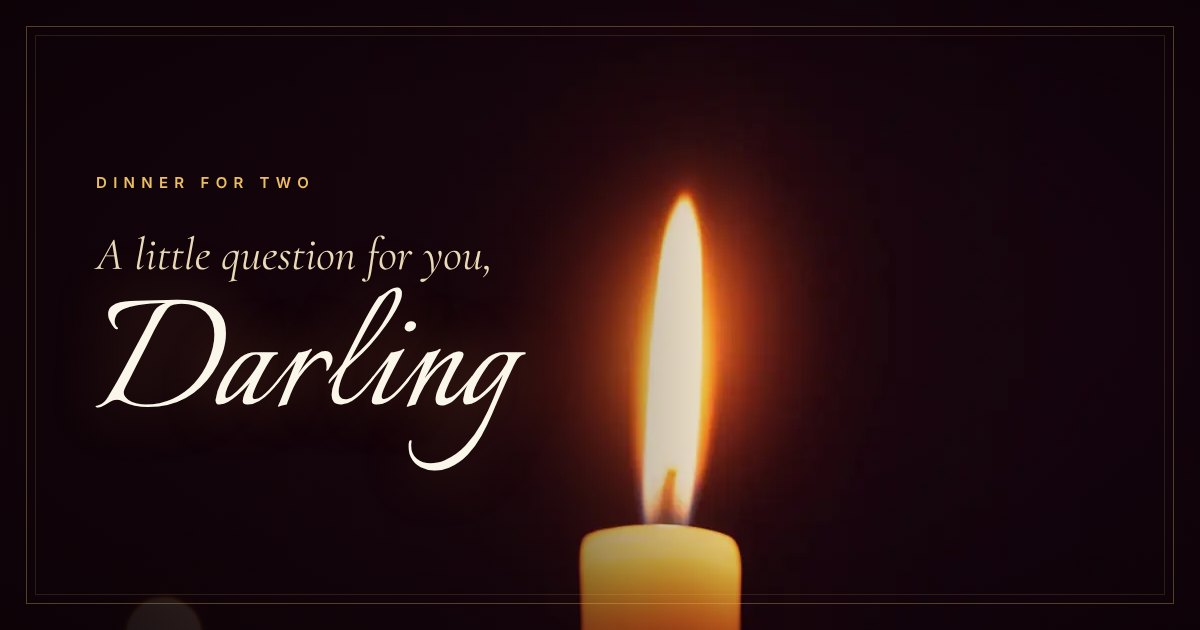
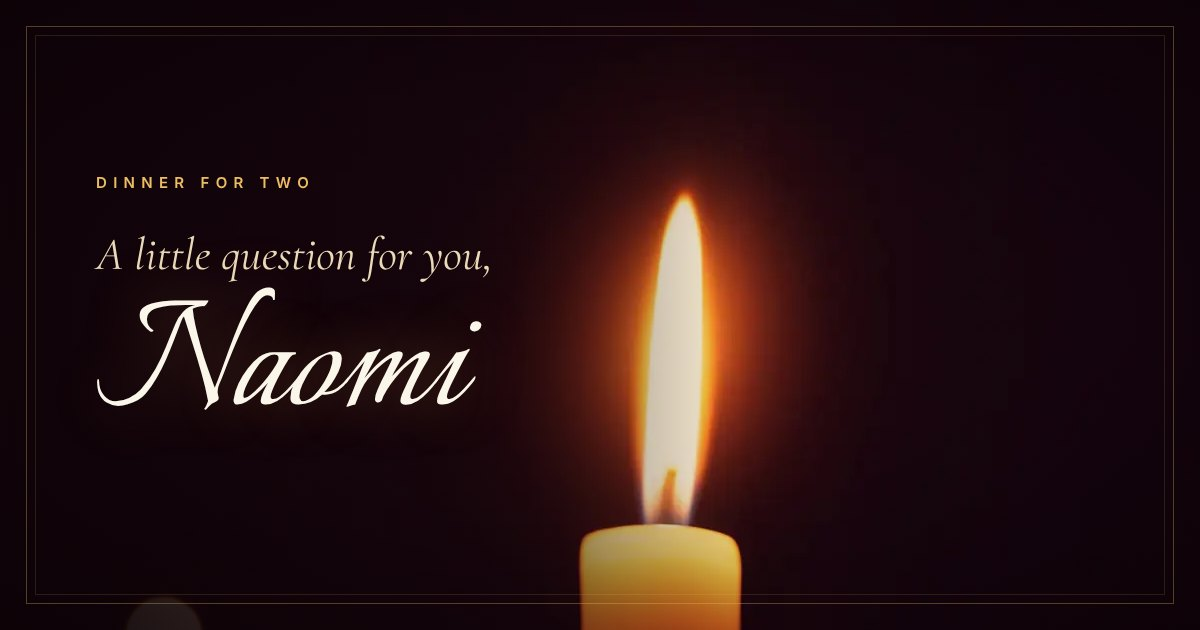
Add 'my queen' touches: hero reveal, question, success line
Nickname, crown toggle, headline and thank-you lines are all in config/site.ts.
Title and OG keep 'A little question for you, Naomi'.

Claude-Session: https://claude.ai/code/session_01SHpvp2hbQx8B6pFzCuEKox

Changed region(s): [[0.0617, 0.4524, 0.4317, 0.6937], [0.3392, 0.6937, 0.4008, 0.754]]

diff --git a/src/components/sections/Opening.tsx b/src/components/sections/Opening.tsx
@@ -52,7 +52,7 @@ export function Opening({ tier }: { tier: Tier }) {
       {!reduced && <Bokeh />}
       <div aria-hidden className="absolute inset-0" style={{ background: 'radial-gradient(90% 60% at 50% 100%, rgba(67,16,34,0.5), transparent 70%)' }} />
 
-      <m.div className="relative z-10 mx-auto flex h-full max-w-xl flex-col items-center justify-end px-6 pb-[13svh] text-center" style={reduced ? undefined : { y: textY, opacity: textOpacity }}>
+      <m.div className="relative z-10 mx-auto flex h-full max-w-xl flex-col items-center justify-end px-6 pb-[12svh] text-center" style={reduced ? undefined : { y: textY, opacity: textOpacity }}>
         <p className="text-[10px] uppercase tracking-[0.5em] text-gold-300/80">{site.eyebrow}</p>
         <h1 className="mt-6 font-script text-cream-50 [text-shadow:0_2px_40px_rgba(18,4,10,0.8)]">
           <span className="block text-[clamp(40px,12vw,68px)] leading-none text-gold-300">
@@ -62,18 +62,40 @@ export function Opening({ tier }: { tier: Tier }) {
             <LetterReveal text={site.herName} reduced={reduced} delay={1.6} />
           </span>
         </h1>
+        {site.hero.nickname && (
+          <m.div
+            initial={reduced ? false : { opacity: 0 }}
+            animate={{ opacity: 1 }}
+            transition={{ duration: 2.6, delay: reduced ? 0 : 4.0, ease: [0.22, 0.61, 0.36, 1] }}
+            className="mt-1 flex flex-col items-center"
+          >
+            {site.hero.crown && (
+              <svg viewBox="0 0 40 30" className="mb-1 h-[22px] w-auto" fill="none" stroke="#ecbd62" strokeWidth="0.9" strokeLinecap="round" strokeLinejoin="round" aria-hidden>
+                <m.path
+                  d="M5 24 L8 9 L15 17 L20 6 L25 17 L32 9 L35 24 Z M5 28 H35"
+                  initial={reduced ? false : { pathLength: 0 }}
+                  animate={{ pathLength: 1 }}
+                  transition={{ duration: 3, delay: reduced ? 0 : 4.2, ease: 'easeInOut' }}
+                />
+                <circle cx="8" cy="7" r="1" fill="#ecbd62" stroke="none" />
+                <circle cx="20" cy="4" r="1" fill="#ecbd62" stroke="none" />
+                <circle cx="32" cy="7" r="1" fill="#ecbd62" stroke="none" />
+              </svg>
+            )}
+            <span className="queen-glow font-script text-[clamp(38px,11vw,60px)] leading-none text-gold-300">{site.hero.nickname}</span>
+          </m.div>
+        )}
         <m.p
           initial={reduced ? false : { opacity: 0, y: 10 }}
           animate={{ opacity: 1, y: 0 }}
-          transition={{ duration: 1.8, delay: reduced ? 0 : 3.2, ease: [0.22, 0.61, 0.36, 1] }}
-          className="mt-7 max-w-[26ch] font-display text-[1.25rem] italic leading-snug text-cream-200/80"
+          transition={{ duration: 1.8, delay: reduced ? 0 : 5.6, ease: [0.22, 0.61, 0.36, 1] }}
+          className="mt-6 max-w-[26ch] font-display text-[1.25rem] italic leading-snug text-cream-200/80"
         >
           {fill(site.hero.tagline)}
         </m.p>
       </m.div>
 
       <div className="absolute inset-x-0 bottom-[max(20px,env(safe-area-inset-bottom))] z-10 flex flex-col items-center gap-3 text-[10px] uppercase tracking-[0.36em] text-cream-200/45" aria-hidden>
-        <span>{site.hero.scrollHint}</span>
         <span className="relative block h-8 w-px overflow-hidden bg-gold-400/25">
           <span className="absolute inset-x-0 top-0 h-3 bg-gradient-to-b from-gold-300 to-transparent [animation:hint_2.8s_ease-in-out_infinite]" />
         </span>

diff --git a/src/config/site.ts b/src/config/site.ts
@@ -12,7 +12,7 @@ export type Choice = 'yes' | 'obviously';
 
 export const site = {
   /** Her name, in the script font. */
-  herName: 'Darling',
+  herName: 'Naomi',
 
   /** Your first name. Used in "Tell {yourName}" and the calendar event. */
   yourName: 'Your Name',
@@ -37,8 +37,11 @@ export const site = {
   hero: {
     /** Shown above her name, in script. Try "Hi," or "Hey" or "Well, hello,". */
     greeting: 'Hey,',
+    /** Your pet name for her. Fades in under her name, softly glowing. Set to '' to leave it out. */
+    nickname: 'my queen',
+    /** A tiny gold line-art crown above the nickname. Set false if it ever feels like too much. */
+    crown: true,
     tagline: 'I have something to ask you.',
-    scrollHint: 'Scroll',
   },
 
   /** Your words, one per screen while she scrolls. Two to four is the sweet spot. */
@@ -70,7 +73,7 @@ export const site = {
 
   /** The big question. */
   question: {
-    headline: 'Will you have dinner with me?',
+    headline: 'My queen, will you have dinner with me?',
     yesPrimary: 'Yes',
     yesSecondary: 'Obviously yes',
     underline: 'I made this easy for you.',
@@ -79,8 +82,8 @@ export const site = {
 
   /** Thank-you line shown depending on which button she tapped. */
   thanks: {
-    yes: 'Perfect. It’s a date.',
-    obviously: 'I knew you had great taste.',
+    yes: 'Perfect. It’s a date, my queen.',
+    obviously: 'I knew you had great taste, my queen.',
   } satisfies Record<Choice, string>,
 
   /** Labels on the confirmation card. {you} is replaced with yourName. */

diff --git a/src/styles/index.css b/src/styles/index.css
@@ -67,6 +67,13 @@ button { font: inherit; -webkit-tap-highlight-color: transparent; }
   100% { transform: translate3d(-10px, -50px, 0) scale(0.95); }
 }
 
+/* "my queen": a quiet candlelit glow */
+.queen-glow { animation: queenGlow 5s ease-in-out infinite; text-shadow: 0 0 18px rgba(255, 190, 100, 0.55), 0 0 44px rgba(255, 150, 60, 0.35); }
+@keyframes queenGlow {
+  0%, 100% { text-shadow: 0 0 14px rgba(255, 190, 100, 0.45), 0 0 38px rgba(255, 150, 60, 0.28); }
+  50% { text-shadow: 0 0 22px rgba(255, 200, 120, 0.7), 0 0 54px rgba(255, 150, 60, 0.42); }
+}
+
 /* soft candlelight breathing behind the question */
 .candle-glow { animation: glowBreathe 5.5s ease-in-out infinite; will-change: opacity, transform; }
 @keyframes glowBreathe {
@@ -118,6 +125,6 @@ button { font: inherit; -webkit-tap-highlight-color: transparent; }
 }
 
 @media (prefers-reduced-motion: reduce) {
-  .kenburns, .bokeh, .candle-glow, .btn-pulse::after, .petal-idle { animation: none !important; }
+  .kenburns, .bokeh, .candle-glow, .queen-glow, .btn-pulse::after, .petal-idle { animation: none !important; }
   .fade-from-black { animation-duration: 0.01s; }
 }

diff --git a/src/components/sections/Question.tsx b/src/components/sections/Question.tsx
@@ -90,7 +90,7 @@ export function Question({ tier }: { tier: Tier }) {
                 whileInView={{ opacity: 1, y: 0 }}
                 viewport={{ once: true, amount: 0.5 }}
                 transition={{ duration: 1.8, delay: 0.5, ease: slow }}
-                className="font-display text-[clamp(40px,11.5vw,78px)] font-medium leading-[1.04] text-cream-50 [text-shadow:0_2px_40px_rgba(18,4,10,0.8)]"
+                className="font-display text-[clamp(38px,10.6vw,76px)] font-medium leading-[1.06] [text-wrap:balance] text-cream-50 [text-shadow:0_2px_40px_rgba(18,4,10,0.8)]"
               >
                 {site.question.headline}
               </m.h2>
